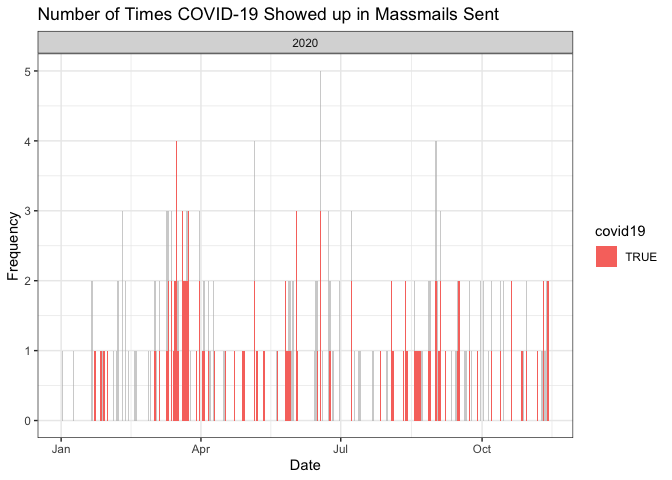
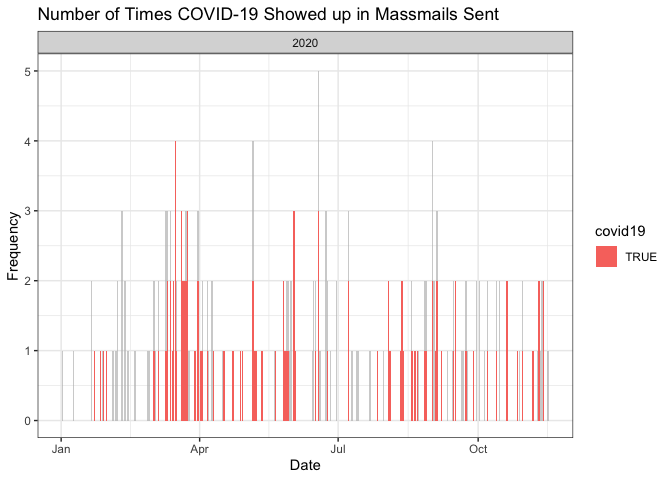
Re-build README.Rmd and Graphs

diff --git a/README.md b/README.md
@@ -17,7 +17,7 @@ The archive may be viewed here:
 
 <https://massmail.illinois.edu/massmailArchive>
 
-Data has **1238** observations and **7** variables:
+Data has **1239** observations and **7** variables:
 
   - `datetime`: Date and time when the email was sent in the form of
     `YYYY-MM-DD HMS` with either CDT or CST.
@@ -205,15 +205,15 @@ head(most_popular_words, 10) %>%
 
 | word        | freq |
 | :---------- | ---: |
-| students    |  679 |
+| students    |  682 |
 | campus      |  627 |
-| university  |  617 |
-| illinois    |  400 |
-| faculty     |  352 |
+| university  |  621 |
+| illinois    |  401 |
+| faculty     |  353 |
 | covid       |  330 |
-| community   |  322 |
+| community   |  324 |
 | information |  286 |
-| staff       |  269 |
+| staff       |  270 |
 | health      |  258 |
 
 #### Wordcloud
